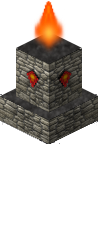
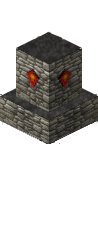
added tower animation

Changed region(s): [[0.3367, 0.0, 0.6735, 0.2333]]

diff --git a/src/Domain/TowerManager.cpp b/src/Domain/TowerManager.cpp
@@ -1,6 +1,5 @@
-#include <tgmath.h>
 #include "TowerManager.h"
-#include "UnitFactory.h"
+
 
 TowerManager::TowerManager()
 {}
@@ -83,6 +82,7 @@ void TowerManager::tick() {
 
                     std::cout << "Hero hp: " << this->hero->getHitPoints() << std::endl;
                     std::cout << "Hero mana: " << this->hero->getBase()->getMana() << std::endl;
+                    EngineFacade::engine()->setInstanceAction(tower->getBase()->getId(),"attack", "towerLayer");
                 }
 
             }
@@ -97,6 +97,7 @@ void TowerManager::tick() {
                     unit->receiveDamage(tower->getPower());
 
                     std::cout << "Unit hp: " << unit->getHitPoints() << std::endl;
+                    EngineFacade::engine()->setInstanceAction(tower->getBase()->getId(),"attack", "towerLayer");
                 }
 
             }

diff --git a/src/Domain/TowerManager.h b/src/Domain/TowerManager.h
@@ -9,6 +9,9 @@
 #include <math.h>
 #include <iostream>
 #include <random>
+#include <tgmath.h>
+#include "UnitFactory.h"
+#include "EngineFacade.h"
 
 class TowerManager {
 
